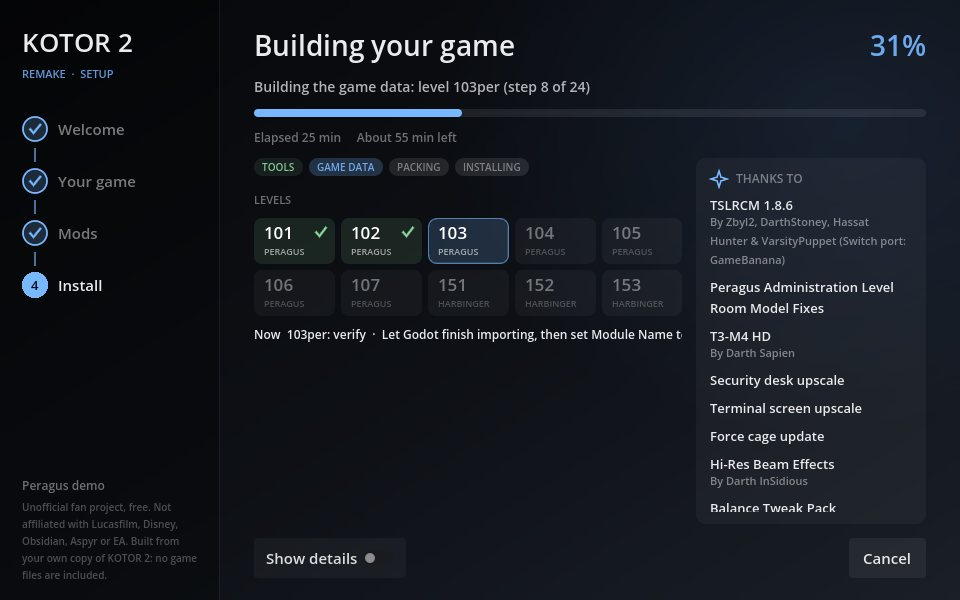
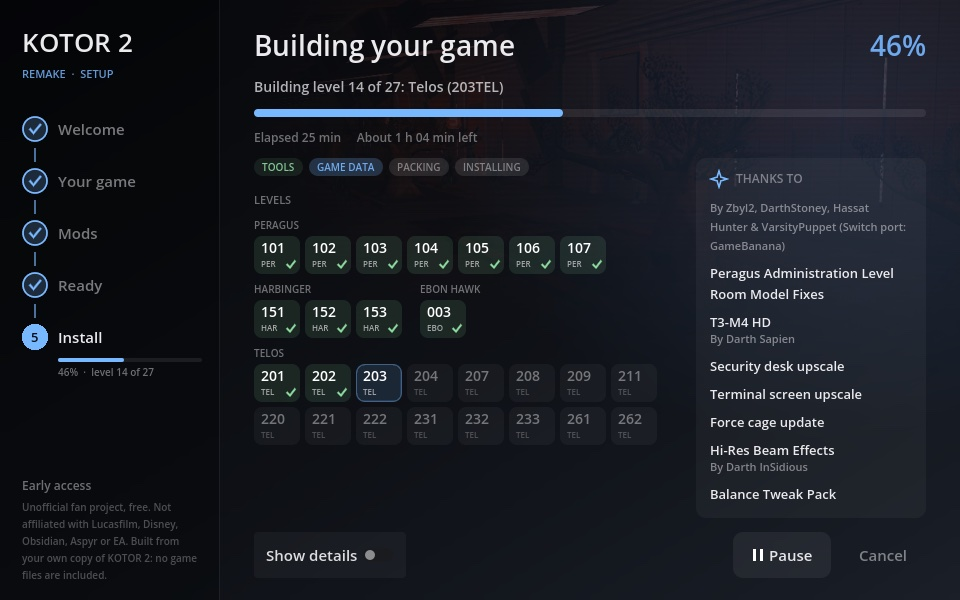
Update

diff --git a/README.md b/README.md
@@ -8,7 +8,8 @@ It runs the original game's own levels, conversations and scripts, built on your
 </div>
 
 > [!WARNING]
-> **Early access: the first level only.** Peragus and the Harbinger, start to finish, on Mac, Windows and Steam Deck.
+> **Early access.** Peragus and the Harbinger start to finish, and new in 0.9.6, the Ebon Hawk and Telos, on Mac,
+> Windows and Steam Deck. Telos hasn't been played through end to end yet, and swoop racing isn't in.
 > Things are expected to be broken.
 > It's an engine recreation: the original game as it was, with only light modernization. See the
 > [roadmap](RELEASE_CHECKLIST.md) for what's done and what's next.
@@ -81,9 +82,10 @@ whether to close in or hang back, which Force powers to use) with one press of a
   </tr>
 </table>
 
-**Loot, stores and the galaxy beyond Peragus.** A container shows what's inside and what it's worth; a store, its
-prices at that merchant's own markup. The Ebon Hawk's galaxy map keeps the original's starfield and planets, with
-what's open to you and what isn't. Stores and the galaxy map are ready for Telos and the planets after it.
+**On to the Ebon Hawk and Telos.** After the Harbinger the story carries on: the Ebon Hawk, then Citadel Station and
+Telos's surface, by daylight under its own sky. A container shows what's inside and what it's worth; a store, its prices
+at that merchant's own markup. The Ebon Hawk's galaxy map keeps the original's starfield and planets, with what's open to
+you and what isn't.
 
 <table>
   <tr>
@@ -99,7 +101,8 @@ what's open to you and what isn't. Stores and the galaxy map are ready for Telos
 </table>
 
 **Setup does the work.** It finds KOTOR 2 in Steam or GOG, tells you about the one free download it needs, and builds
-the game while you watch each level come together.
+the game while you watch each level come together. You can pause a build and carry on later, and when a new version
+adds levels, Update builds only those.
 
 <table>
   <tr>
@@ -114,12 +117,13 @@ the game while you watch each level come together.
   </tr>
 </table>
 
-Also in this demo: the original's combat rules down to critical hits and combat feats (Power Attack, Flurry, Critical
-Strike), metal and glass that shine as they did, upscaling (MetalFX and FSR 2) for a sharper picture on a Mac,
-characters who turn to whoever's talking and fidget while they wait, rooms that echo by their size, controller support,
-and mods you can search, drag into order and switch on and off without a restart, with a warning when two of them clash.
+Also: the original's combat rules down to critical hits and combat feats (Power Attack, Flurry, Critical Strike),
+knockdowns you get up from, weapons drawn as a fight starts, metal and glass that shine as they did, skies, screens and
+lights that glow, upscaling (MetalFX and FSR 2) for a sharper picture on a Mac, characters who turn to whoever's talking,
+listen and fidget while they wait, rooms that echo by their size, controller support, and mods you can search, drag into
+order and switch on and off without a restart, with a warning when two of them clash.
 
-<sub>Screenshots from the demo on a Mac, Effects set to Enhanced.</sub>
+<sub>Screenshots on a Mac, Effects set to Enhanced.</sub>
 
 ---
 
@@ -133,8 +137,9 @@ From [Releases](../../releases), get the Setup for your system:
 | **Windows** 10 or 11, 64-bit *(experimental)* | `KOTOR2-Remake-Setup-Windows.zip` | [INSTALL_WINDOWS.md](INSTALL_WINDOWS.md) |
 | **Steam Deck** and Linux *(experimental)* | `KOTOR2-Remake-Setup-Linux.tar.gz` | [INSTALL_STEAM_DECK.md](INSTALL_STEAM_DECK.md) |
 
-On every system you need your own copy of KOTOR 2 (Steam or GOG) and one free mod, TSLRCM. Setup builds the game from
-your copy on your computer, so the first install takes a while. **Windows and Steam Deck are experimental**: they're new
+On every system you need your own copy of KOTOR 2 (Steam or GOG), one free mod, TSLRCM, and about 25 GB free while it
+builds (about 5 GB once it's done). Setup builds the game from your copy on your computer, so the first install takes a
+while. **Windows and Steam Deck are experimental**: they're new
 and only a few players have tried them so far, so reports from them are especially welcome.
 
 ## Install on a Mac
@@ -148,16 +153,18 @@ and only a few players have tried them so far, so reports from them are especial
    to KOTOR 2 Remake Setup, then confirm. Setup walks you through a few short pages (your game, mods, then
    **Ready**, which checks everything at once, then **Install**). If something's missing, it says what and updates by
    itself once you've downloaded it.
-4. **Wait.** The first build takes an hour or more, and Setup shows how long is left. If it stops, it says what to do,
-   and **Try again** carries on where it stopped. When it's done, Setup removes everything it used to build the game.
-   Then press **Play**.
+4. **Wait.** The first build takes a couple of hours, and Setup shows how long is left. **Pause** stops it for now; it
+   carries on where it was, even after closing Setup. If it stops on its own, it says what to do, and **Try again**
+   carries on where it stopped. When it's done, Setup removes everything it used to build the game. Then press **Play**.
 
 On Windows or a Steam Deck, follow [INSTALL_WINDOWS.md](INSTALL_WINDOWS.md) or
 [INSTALL_STEAM_DECK.md](INSTALL_STEAM_DECK.md): the same Setup, with the steps for that system (on the Deck, including
 adding the game to Steam for Game Mode).
 
-**Updating:** download the new Setup and run it. If your game data is still current, it says **Update** and only
-replaces the game, in about a minute; your game data, mods, saves and settings stay as they are.
+**Updating:** download the new Setup and run it, and it says **Update**, with what's new. When the new version only
+changes the game, that takes about a minute. When it adds levels (0.9.6 adds the Ebon Hawk and Telos), it builds only
+those, so it needs your copy of KOTOR 2 and TSLRCM again and about 15 GB free. Either way, the levels you have, your
+mods, saves and settings stay as they are.
 
 Why these mods, and what each one does: [COMMUNITY_MODS.md](COMMUNITY_MODS.md).
 

diff --git a/RELEASE_CHECKLIST.md b/RELEASE_CHECKLIST.md
@@ -2,7 +2,7 @@
 
 Here's what's done, what I'm working on, and what's left before a 1.0. Checked boxes are done and tested.
 
-> **Where things are right now:** it's an early demo, first level only: Peragus and the Harbinger, start to finish.
+> **Where things are right now:** early access: Peragus and the Harbinger start to finish, and the Ebon Hawk and Telos (0.9.6), not yet played through.
 > There will be bugs. What I'm going for is an engine recreation of KOTOR 2, meaning the original levels, scripts and
 > rules running the way they did, with a few modern touches (graphics settings, optional HD textures, an installer
 > that does the work for you). I'm one person, so I won't be able to fix, port or add everything.
@@ -68,7 +68,6 @@ Peragus doesn't use any of these, so they'll show up along with the planets that
 
 - [x] Stores (buying and selling) and credits (0.9.5)
 - [x] The galaxy map (0.9.5)
-- [x] Every level toured area by area, with a report of what's broken (0.9.5)
 - [ ] Influence and companion conversations
 - [ ] Training companions as Jedi
 - [x] The full party, and swapping members (the party selection screen, 0.9.0)

diff --git a/INSTALL_STEAM_DECK.md b/INSTALL_STEAM_DECK.md
@@ -60,8 +60,10 @@ Effects **Enhanced** at **Medium**, or Classic for the longest battery life.
 
 ## Updating
 
-Download the new Setup in Desktop Mode and run it. If your game data is still current, it says **Update** and takes
-about a minute; your saves, settings and mods are kept, and the Steam shortcut keeps working.
+Download the new Setup in Desktop Mode and run it: it says **Update**, with what's new. When the new version only changes
+the game, that takes about a minute. When it adds levels (0.9.6 adds the Ebon Hawk and Telos), it builds only those, so
+it needs TSLRCM again and about 15 GB free. The levels you have, your saves, settings and mods are kept, and the Steam
+shortcut keeps working.
 
 ## Other Linux PCs
 

diff --git a/INSTALL_WINDOWS.md b/INSTALL_WINDOWS.md
@@ -40,8 +40,9 @@ too (Steam closes for a moment while it's added, if it was open).
 
 ## Updating
 
-Download the new Setup and run it. If your game data is still current, it says **Update** and takes about a minute;
-your saves, settings and mods are kept.
+Download the new Setup and run it: it says **Update**, with what's new. When the new version only changes the game, that
+takes about a minute. When it adds levels (0.9.6 adds the Ebon Hawk and Telos), it builds only those, so it needs your
+copy of KOTOR 2 and TSLRCM again and about 15 GB free. The levels you have, your saves, settings and mods are kept.
 
 ## If something goes wrong
 

diff --git a/MODDING.md b/MODDING.md
@@ -1,7 +1,7 @@
 # Modding guide
 
 > [!WARNING]
-> **This is an early demo, and it covers only the first level.** Only Peragus and the Harbinger are rebuilt. Things
+> **This is early access.** Peragus, the Harbinger, the Ebon Hawk and Telos are rebuilt. Things
 > are expected to be broken: missing features, bugs, rough edges. I can't fix, port or implement everything. The goal
 > is an **engine recreation** of KOTOR 2: the original game's levels, scripts and rules running as they did, without
 > modernizing its systems more than needed. Mod support follows the same idea: it gives you hooks into the original
